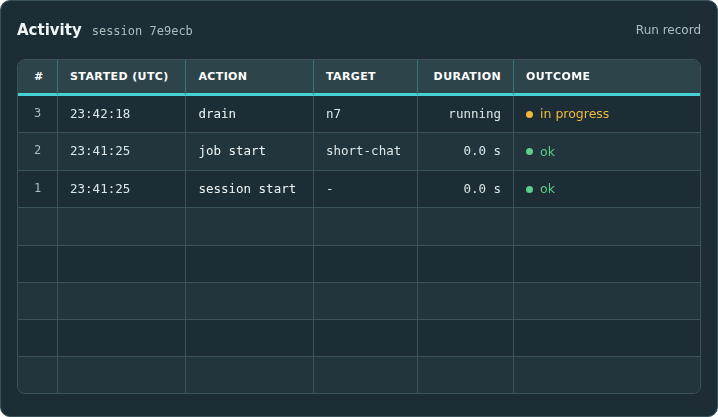
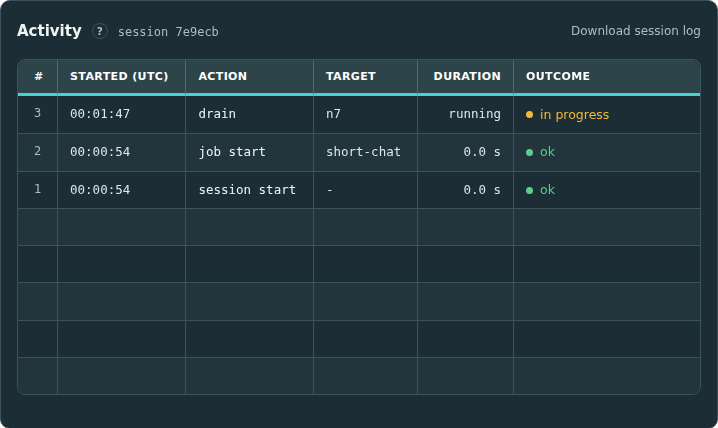
Update fleet control assets and documentation for improved clarity and usability

diff --git a/tools/fleet_control/console.html b/tools/fleet_control/console.html
@@ -346,12 +346,28 @@ body.framed .connect { margin: 0; padding: 4px; border: 0; max-width: none; }
 .connect input { flex: 1 1 200px; }
 .message { margin: 8px 0 0; font-size: 12px; }
 
+/* Panel help: a "?" that shows its text on hover or focus. */
+.help { position: relative; align-self: center; display: inline-flex; align-items: center; justify-content: center; width: 16px; height: 16px; border: 1px solid var(--line); border-radius: 50%; color: var(--muted); font: 600 10.5px/1 var(--sans); cursor: help; }
+.help:hover, .help:focus-visible { color: var(--primary); border-color: var(--primary); outline: none; }
+.help::after { content: attr(data-tip); position: absolute; top: calc(100% + 8px); left: -8px; z-index: 30; width: max-content; max-width: min(340px, 80vw); padding: 8px 10px; border: 1px solid var(--line); border-radius: 6px; background: var(--panel); box-shadow: var(--shadow); color: var(--text); font: 400 12px/1.45 var(--sans); white-space: normal; opacity: 0; visibility: hidden; pointer-events: none; transition: opacity 0.12s; }
+.help:hover::after, .help:focus::after { opacity: 1; visibility: visible; }
+
+/* Buttons that share a row's width. */
+.fill-row { display: grid; grid-auto-flow: column; grid-auto-columns: minmax(0, 1fr); gap: 8px; }
+@media (max-width: 600px) { .fill-row { grid-auto-flow: row; } }
+
 /* Board. */
 .board { display: grid; gap: 16px; max-width: 1680px; margin: 0 auto; padding: 20px 24px 48px; grid-template-columns: repeat(2, minmax(0, 1fr)); align-items: start; }
 .area-engines, .area-dashboard { grid-column: 1 / -1; }
-.area-load, .area-results { align-self: stretch; }
-/* Activity: fixed height, scrolling rows. */
-.area-activity { align-self: stretch; min-height: 400px; }
+.board-col { display: flex; flex-direction: column; gap: 16px; min-width: 0; align-self: stretch; }
+/* Benchmark: the form above its results, as one panel. */
+.benchmark { gap: 0; border-radius: 10px; box-shadow: var(--panel-shadow); }
+.benchmark > .panel { box-shadow: none; }
+.benchmark > .area-load { border-bottom: 0; border-radius: 10px 10px 0 0; }
+.benchmark > .area-results { flex: 1 1 auto; border-top: 1px solid var(--line-soft); border-radius: 0 0 10px 10px; }
+body.framed .benchmark, body.framed .benchmark > .panel { border: 0; border-radius: 0; box-shadow: none; }
+/* Activity: fills the column, scrolling rows. */
+.area-activity { flex: 1 1 auto; min-height: 400px; }
 @media (max-width: 1200px) { .area-activity { height: 420px; } }
 .activity-scroll { flex: 1 1 0; min-height: 0; overflow: auto; }
 .activity-scroll thead th { position: sticky; top: 0; z-index: 1; }
@@ -501,7 +517,6 @@ th[aria-sort="descending"] .sort::after { content: "↓"; }
 @media (max-width: 560px) { .fields { grid-template-columns: repeat(2, minmax(0, 1fr)); } .field.wide, .field.half { grid-column: span 2; } }
 .panel-form .hint { padding: 10px 12px; background: var(--inset); border-radius: 4px; line-height: 1.55; }
 /* The Benchmark form fills its panel. */
-#view-load .panel-form { flex: 1 1 auto; justify-content: space-between; }
 #view-load .fields { row-gap: 18px; }
 #view-load .field input, #view-load .field select { height: 36px; }
 body.framed #view-load { min-height: 100vh; }
@@ -511,7 +526,9 @@ body.framed #view-load { min-height: 100vh; }
 .results-head .lbl { font: 11.5px var(--mono); white-space: nowrap; }
 #results-body { display: flex; flex-direction: column; gap: 12px; }
 #results-body[hidden] { display: none; }
-.kpis { display: grid; grid-template-columns: repeat(auto-fit, minmax(104px, 1fr)); gap: 14px; margin: 0; }
+.kpis { display: grid; grid-template-columns: repeat(5, minmax(0, 1fr)); gap: 12px; margin: 0; }
+@media (max-width: 600px) { .kpis { grid-template-columns: repeat(2, minmax(0, 1fr)); } }
+.kpis dt { overflow: hidden; text-overflow: ellipsis; white-space: nowrap; }
 .kpis > div { display: flex; flex-direction: column; gap: 4px; padding-left: 12px; border-left: 1px solid var(--line); }
 .kpis dt { font: 500 10.5px/1.45 var(--mono); letter-spacing: 0.08em; text-transform: uppercase; color: var(--muted); }
 .kpis dd { margin: 0; display: flex; align-items: baseline; flex-wrap: wrap; gap: 6px; font: 500 22px/1.2 var(--mono); letter-spacing: -0.02em; color: var(--strong); }
@@ -531,8 +548,8 @@ table.latency th:last-child, table.latency td:last-child { padding-right: 10px; 
 table.latency td:last-child { color: var(--muted); }
 .charts { display: grid; grid-template-columns: repeat(auto-fit, minmax(min(240px, 100%), 1fr)); gap: 20px; }
 .charts figure { margin: 0; display: flex; flex-direction: column; gap: 6px; min-width: 0; }
-.charts figcaption { display: flex; flex-wrap: wrap; justify-content: space-between; align-items: baseline; gap: 2px 8px; }
-.charts figcaption span:first-child { font-size: 12px; font-weight: 500; color: var(--strong); }
+.charts figcaption { display: flex; justify-content: space-between; align-items: baseline; gap: 8px; min-height: 18px; }
+.charts figcaption span:first-child { min-width: 0; overflow: hidden; text-overflow: ellipsis; white-space: nowrap; font-size: 12px; font-weight: 500; color: var(--strong); }
 .charts figcaption span:last-child { font: 11px var(--mono); color: var(--muted); white-space: nowrap; }
 svg.chart { display: block; width: 100%; height: 80px; }
 .chart .area { fill: var(--info); opacity: 0.12; }
@@ -640,7 +657,7 @@ dialog ul:empty { display: none; }
 <main id="board" class="board" hidden>
   <section id="view-engines" class="view panel area-engines" aria-labelledby="engines-title">
     <div class="panel-head">
-      <h2 id="engines-title">Engines <span id="engines-state" class="sub"></span></h2>
+      <h2 id="engines-title">Engines <span class="help" tabindex="0" role="img" aria-label="Engines in the baseline fleet, with role, state and resident requests. Act on an engine from its row." data-tip="Engines in the baseline fleet, with role, state and resident requests. Act on an engine from its row.">?</span> <span id="engines-state" class="sub"></span></h2>
       <div class="legend" aria-label="Role colours"><span class="role role-prefill">prefill</span><span class="role role-decode">decode</span><span class="role role-colocated">colocated</span></div>
     </div>
     <p id="engines-notice" class="notice" hidden></p>
@@ -677,9 +694,10 @@ dialog ul:empty { display: none; }
     <div id="last-action" class="inset last-action" hidden></div>
   </section>
 
+  <div class="board-col benchmark">
   <section id="view-load" class="view panel area-load" aria-labelledby="load-title">
     <div class="panel-head">
-      <h2 id="load-title">Benchmark <span id="job-title" class="sub"></span></h2>
+      <h2 id="load-title">Benchmark <span class="help" tabindex="0" role="img" aria-label="Runs an AIPerf job against the router. The job ends at its duration or request limit, or on Stop job." data-tip="Runs an AIPerf job against the router. The job ends at its duration or request limit, or on Stop job.">?</span> <span id="job-title" class="sub"></span></h2>
       <span class="head-end"><span id="job-state" class="lbl"></span><span id="job-time" class="sub"></span></span>
     </div>
     <p id="load-notice" class="notice" hidden></p>
@@ -697,23 +715,22 @@ dialog ul:empty { display: none; }
         <div class="field"><label for="job-warmup" class="k">Warm-up</label><input id="job-warmup" type="number" min="1" step="1" inputmode="numeric"></div>
       </div>
       <p id="workload-hint" class="hint"></p>
-      <div class="row">
+      <div class="fill-row">
         <button id="job-start" class="btn btn-primary" type="submit">Start job</button>
         <button id="job-stop" class="btn btn-danger" type="button">Stop job</button>
-        <span id="job-locked" class="lbl" hidden></span>
       </div>
+      <span id="job-locked" class="lbl" hidden></span>
       <p id="fb-job" class="feedback" hidden></p>
     </form>
   </section>
 
   <section id="view-results" class="view panel area-results" aria-labelledby="results-title">
     <div class="panel-head">
-      <h2 id="results-title">Benchmark results <span id="results-job" class="sub"></span></h2>
-      <span class="head-end"><a id="job-document" href="#" hidden>Job document</a><span id="job-document-later" class="lbl" hidden>Job document available when the job ends</span></span>
+      <h2 id="results-title">Results <span class="help" tabindex="0" role="img" aria-label="Figures of the current or last job, from AIPerf&#x27;s per-request records. Refreshed every 3 seconds. Warm-up requests are excluded." data-tip="Figures of the current or last job, from AIPerf&#x27;s per-request records. Refreshed every 3 seconds. Warm-up requests are excluded.">?</span> <span id="results-job" class="sub"></span></h2>
+      <span class="head-end"><a id="job-document" href="#" hidden>Download results</a><span id="job-document-later" class="lbl" hidden>Download available when the job ends</span></span>
     </div>
-    <p id="results-empty" class="lbl">Start a benchmark to see its results here as they arrive.</p>
     <p id="job-error" class="notice bad" hidden></p>
-    <div id="results-body" hidden>
+    <div id="results-body">
       <div class="results-head"><progress id="results-progress" max="1" value="0" aria-label="Job progress"></progress><span id="results-clock" class="lbl"></span></div>
       <dl id="results-kpis" class="kpis"></dl>
       <table class="latency">
@@ -726,10 +743,12 @@ dialog ul:empty { display: none; }
       </div>
     </div>
   </section>
+  </div>
 
+  <div class="board-col">
   <section id="view-config" class="view panel area-config" aria-labelledby="config-title">
     <div class="panel-head">
-      <h2 id="config-title">Configuration</h2>
+      <h2 id="config-title">Configuration <span class="help" tabindex="0" role="img" aria-label="Changes from the baseline in this session. Check overlay previews a JSON merge patch. Apply overlay applies it. Cold restart runs the cold_restart hook. Restore baseline undoes the session&#x27;s changes." data-tip="Changes from the baseline in this session. Check overlay previews a JSON merge patch. Apply overlay applies it. Cold restart runs the cold_restart hook. Restore baseline undoes the session&#x27;s changes.">?</span></h2>
       <span id="config-state" class="lbl"></span>
     </div>
     <div id="config-changes" class="inset"></div>
@@ -742,10 +761,9 @@ dialog ul:empty { display: none; }
     </div>
     <p id="overlay-status" class="overlay-status"></p>
     <div id="overlay-check" class="check" hidden></div>
-    <div class="row config-actions">
+    <div class="fill-row config-actions">
       <button id="overlay-check-button" class="btn" type="button">Check overlay</button>
       <button id="overlay-apply" class="btn btn-primary" type="button">Apply overlay</button>
-      <span class="spacer"></span>
       <button id="cold-restart" class="btn btn-danger" type="button">Cold restart</button>
       <button id="restore" class="btn btn-danger" type="button">Restore baseline</button>
     </div>
@@ -754,8 +772,8 @@ dialog ul:empty { display: none; }
 
   <section id="view-activity" class="view panel area-activity" aria-labelledby="activity-title">
     <div class="panel-head">
-      <h2 id="activity-title">Activity <span id="activity-state" class="sub"></span></h2>
-      <a id="run-record" href="#" class="lbl" hidden>Run record</a>
+      <h2 id="activity-title">Activity <span class="help" tabindex="0" role="img" aria-label="Actions recorded in this session, newest first. Download session log saves the session&#x27;s run record." data-tip="Actions recorded in this session, newest first. Download session log saves the session&#x27;s run record.">?</span> <span id="activity-state" class="sub"></span></h2>
+      <a id="run-record" href="#" class="lbl" hidden>Download session log</a>
     </div>
     <div class="scroll activity-scroll" tabindex="0" aria-label="Recorded actions">
       <table class="tbl">
@@ -764,6 +782,7 @@ dialog ul:empty { display: none; }
       </table>
     </div>
   </section>
+  </div>
 
   <aside id="dashboard" class="panel area-dashboard" aria-labelledby="dashboard-title">
     <div class="panel-head"><h2 id="dashboard-title">Dashboard</h2></div>
@@ -864,7 +883,7 @@ function showTheme() {
 }
 try {
   const saved = localStorage.getItem(THEME_KEY);
-  if (saved === "light" || saved === "dark") document.documentElement.dataset.theme = saved;
+  if (!document.documentElement.dataset.theme && (saved === "light" || saved === "dark")) document.documentElement.dataset.theme = saved;
 } catch (error) { /* The system theme applies. */ }
 $("theme").addEventListener("click", () => {
   const next = currentTheme() === "dark" ? "light" : "dark";
@@ -2042,45 +2061,47 @@ function renderResults() {
   const job = state.health && state.health.job;
   const live = job && state.live && state.live.started_at === job.started_at ? state.live : null;
   $("results-job").textContent = job ? job.id : "";
-  $("results-empty").hidden = Boolean(job);
-  $("results-body").hidden = !job;
   $("job-document").hidden = !job || job.state === "running";
   $("job-document-later").hidden = !job || job.state !== "running";
   $("job-error").hidden = !(job && job.error);
   $("job-error").textContent = job && job.error ? job.error : "";
-  if (!job) return;
   const progress = jobProgress(job);
   $("results-progress").hidden = !progress || progress.fraction === null;
   if (progress && progress.fraction !== null) $("results-progress").value = progress.fraction;
-  $("results-clock").textContent = job.state + (progress && progress.label ? " · " + progress.label : "");
-  if (!live) return;
-  const requests = live.requests;
-  const throughput = live.throughput;
+  $("results-clock").textContent = !job ? "Start a benchmark to see its results here as they arrive."
+    : job.state + (progress && progress.label ? " · " + progress.label : "");
+  // Without a job's records, the figures stay blank.
+  const show = (text) => (live ? text : "\u00a0");
+  const requests = live ? live.requests : {};
+  const throughput = live ? live.throughput : {};
   const kpis = [
-    kpi("Completed", amount(requests.completed, 0), job.params.requests ? "of " + amount(job.params.requests, 0) : ""),
-    kpi("Errors", amount(requests.errors, 0), "", requests.errors ? "tone-bad" : ""),
-    kpi("Requests/s", amount(throughput.requests_per_s)),
-    kpi("Output tok/s", amount(throughput.output_tokens_per_s, 0)),
+    kpi("Completed", show(amount(requests.completed, 0)), live && job.params.requests ? "of " + amount(job.params.requests, 0) : ""),
+    kpi("Errors", show(amount(requests.errors, 0)), "", requests.errors ? "tone-bad" : ""),
+    kpi("Requests/s", show(amount(throughput.requests_per_s))),
+    kpi("Output tok/s", show(amount(throughput.output_tokens_per_s, 0))),
   ];
-  if (live.goodput && requests.completed) {
+  if (live && live.goodput && requests.completed) {
     const share = 100 * live.goodput.good_requests / requests.completed;
     kpis.push(kpi("Within SLO", amount(share, 1) + "%", "", share >= 95 ? "tone-ok" : share >= 90 ? "tone-warn" : "tone-bad"));
+  } else {
+    kpis.push(kpi("Within SLO", show("-")));
   }
   $("results-kpis").replaceChildren(...kpis);
   const rows = LATENCY_ROWS.map(([name, label]) => {
-    const stats = live.latency[name] || {};
-    const target = live.slo[name];
+    const stats = (live && live.latency[name]) || {};
+    const target = live && live.slo[name];
     return el("tr", {},
       el("td", {}, label),
-      el("td", {}, milliseconds(stats.p50)),
-      el("td", { class: targetTone(stats.p95, target) }, milliseconds(stats.p95)),
-      el("td", {}, milliseconds(stats.p99)),
-      el("td", {}, target ? milliseconds(target) : "-"));
+      el("td", {}, show(milliseconds(stats.p50))),
+      el("td", { class: targetTone(stats.p95, target) }, show(milliseconds(stats.p95))),
+      el("td", {}, show(milliseconds(stats.p99))),
+      el("td", {}, show(target ? milliseconds(target) : "-")));
   });
   $("results-latency").replaceChildren(...rows);
-  const points = live.series.points;
+  const points = live ? live.series.points : [];
   drawChart("chart-rate", points.map((point) => [point.t, point.requests_per_s]), null, (value) => amount(value, 1) + "/s");
-  drawChart("chart-ttft", points.map((point) => [point.t, point.ttft_p95]), live.slo.ttft, milliseconds);
+  drawChart("chart-ttft", points.map((point) => [point.t, point.ttft_p95]), live ? live.slo.ttft : null, milliseconds);
+  if (!live) $("chart-rate-meta").textContent = $("chart-ttft-meta").textContent = "";
 }
 
 // Draw one series and its target line.
@@ -2122,7 +2143,7 @@ function drawChart(id, points, target, format) {
   }
   svg.replaceChildren(...nodes);
   $(id + "-meta").textContent = (values.length ? "peak " + format(peak) : "waiting for requests") + (target ? " · target " + format(target) : "");
-  $(id + "-axis").replaceChildren(el("span", {}, "0:00"), el("span", {}, end ? duration(end * 1000) : ""));
+  $(id + "-axis").replaceChildren(el("span", {}, "0:00"), el("span", {}, end ? duration(end * 1000) : "\u00a0"));
 }
 
 function renderJob() {
@@ -2131,11 +2152,11 @@ function renderJob() {
   const running = Boolean(job && job.state === "running");
   const gate = sessionGate();
   setControl($("job-start"), state.pending.has("job") ? "The job request is running." : gate || (running ? job.id + " is running." : ""));
-  setControl($("job-stop"), state.pending.has("job") ? "The job request is running." : !health.session ? "Start a session first." : running ? "" : "No load job is running.");
+  setControl($("job-stop"), state.pending.has("job") ? "The job request is running." : !health.session ? "Start a session first." : running ? "" : "No benchmark is running.");
   for (const id of JOB_INPUTS) $(id).disabled = running;
   $("job-title").textContent = job ? job.id : "";
   const progress = jobProgress(job);
-  $("job-state").textContent = job ? job.state : "No load job";
+  $("job-state").textContent = job ? job.state : "No benchmark";
   $("job-state").className = running ? "tone-ok strong-state" : job && job.state === "failed" ? "tone-bad strong-state" : "lbl";
   $("job-time").textContent = progress && progress.label ? progress.label : "";
   $("job-locked").hidden = !running;

diff --git a/docs/operate/fleet-control/06-Load-Jobs.md b/docs/operate/fleet-control/06-Load-Jobs.md
@@ -8,8 +8,8 @@ The service runs one AIPerf job at a time against `router.url`. To change the ra
 
 <div class="narwhal-panel-row" markdown>
 
-![Benchmark view with a running job.](../../assets/fleet-control/load-job.png#only-light)
-![Benchmark view with a running job.](../../assets/fleet-control/load-job-dark.png#only-dark)
+![Benchmark panel with a running job.](../../assets/fleet-control/load-job.png#only-light)
+![Benchmark panel with a running job.](../../assets/fleet-control/load-job-dark.png#only-dark)
 
 </div>
 
@@ -19,7 +19,7 @@ The hint under the inputs describes the selected workload and the inputs it acce
 
 ## Start a job
 
-In the **Benchmark** view, select a workload and set its inputs:
+In the **Benchmark** panel, select a workload and set its inputs:
 
 | Input            | Field             | Meaning                                                                                                  | Range        | Default  |
 | ---------------- | ----------------- | -------------------------------------------------------------------------------------------------------- | ------------ | -------- |
@@ -51,11 +51,11 @@ A `timestamped_trace` workload sends each request at its recorded time. With bot
 
 ## While the job runs
 
-The view locks its inputs, and the session strip shows the job's progress. **Stop job** stops AIPerf.
+The panel locks its inputs, and the session strip shows the job's progress. **Stop job** stops AIPerf.
 
 ## Benchmark results
 
-**Benchmark results** updates every few seconds while the job runs and keeps the final figures when it ends. It reads AIPerf's per-request records and leaves out warm-up requests. It shows:
+**Results** shows the current or last job's figures from AIPerf's per-request records, refreshed every 3 seconds. Warm-up requests are excluded. It shows:
 
 - the job's progress against its duration
 - completed requests, errors, requests per second and output tokens per second
@@ -72,6 +72,6 @@ A p95 value turns yellow at 80% of its target and red at 100%.
 
 </div>
 
-**Job document** downloads the full job document as `<job>.json`. [Load jobs](10-API-Reference.md#load-jobs) in the API reference lists its fields.
+**Download results** saves the job document as `<job>.json`. [Load jobs](10-API-Reference.md#load-jobs) in the API reference lists its fields.
 
 A job fails when its trace file is unreadable, AIPerf fails to start or exits non-zero, or the AIPerf summary export is missing or unreadable.

diff --git a/docs/operate/fleet-control/04-Sessions.md b/docs/operate/fleet-control/04-Sessions.md
@@ -33,7 +33,7 @@ The session strip runs along the top of the console.
 | **From session start** | Opens the dashboard with its time range starting at the session start                                                                                     |
 | **Benchmark**          | The current or last job, its state and its elapsed time                                                                                                   |
 | **Drain deadline**     | Deadline in seconds for drains started from this tab. Empty uses the router's default                                                                     |
-| Buttons                | **Start session** or **End session**, **Dashboard**, which opens the Grafana dashboard in a new tab, **Forget token**, and the light and dark mode switch |
+| Buttons                | **Start session** or **End session**, **Dashboard**, which opens the Grafana dashboard in a new tab, **Forget token** and the theme switch |
 
 ## Exclusive actions
 
@@ -52,4 +52,4 @@ The **Activity** view lists the session's actions, newest first, with each actio
 
 </div>
 
-**Run record** downloads the session's [run record](11-Run-Record.md) as `run-<session>.json`.
+**Download session log** saves the session's [run record](11-Run-Record.md) as `run-<session>.json`.

diff --git a/docs/operate/fleet-control/02-Open-the-Console.md b/docs/operate/fleet-control/02-Open-the-Console.md
@@ -29,7 +29,9 @@ If the control service or Grafana listens on a router-host address other than `1
 
 **Connect** keeps the token in the tab's session storage. Closing the tab or selecting **Forget token** clears it. If the service rejects the token, the page asks for it again.
 
-The console shows times in UTC and follows the browser's light or dark preference. To override the theme, add `theme=light` or `theme=dark` to the URL.
+Times are in UTC. To switch between light and dark mode, select the theme button in the header. To open the console in one mode, add `theme=light` or `theme=dark` to the URL.
+
+The **?** beside each panel title describes the panel.
 
 ## Connecting automatically
 
